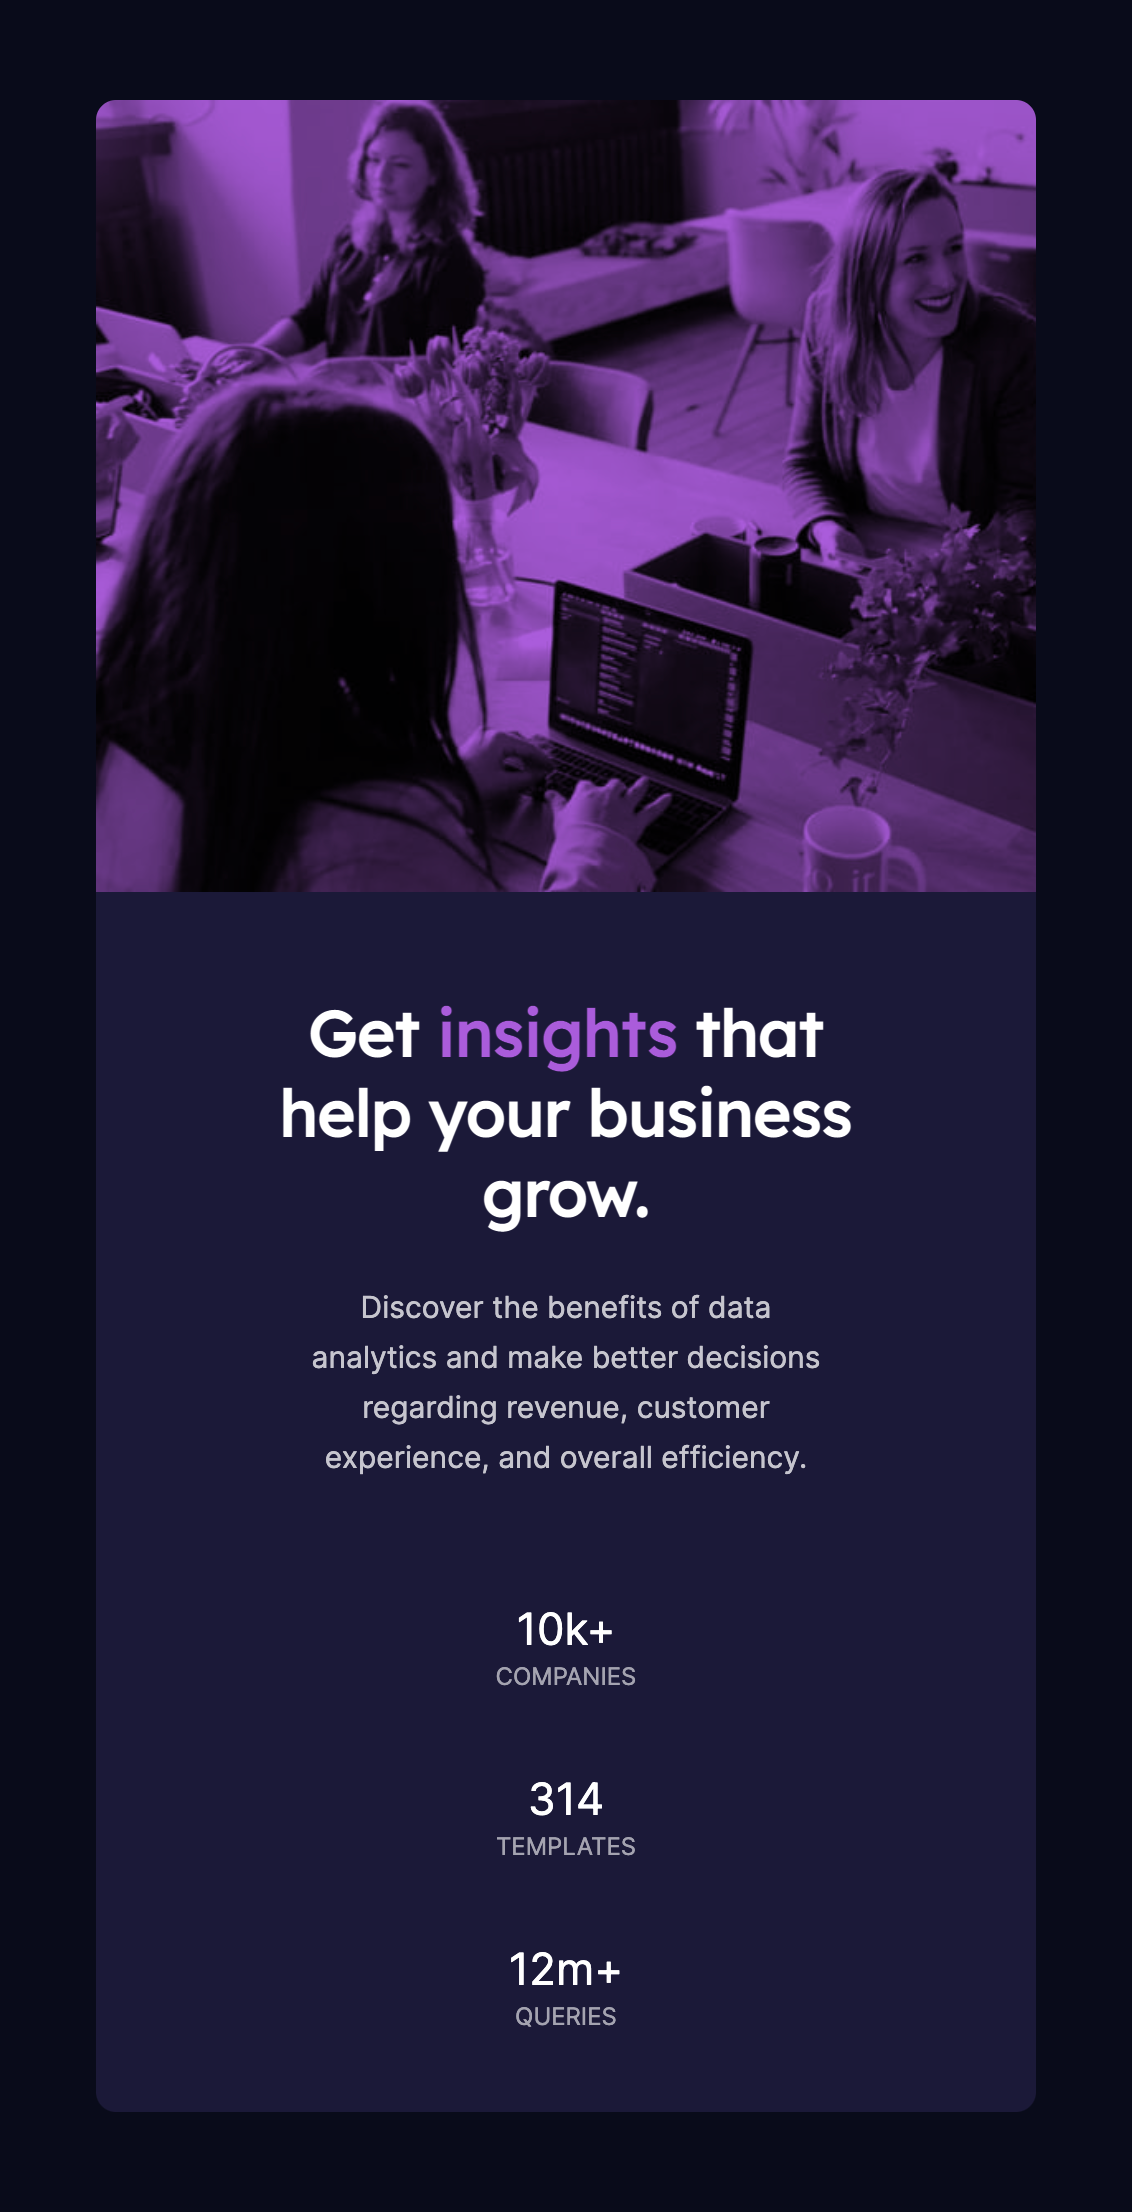
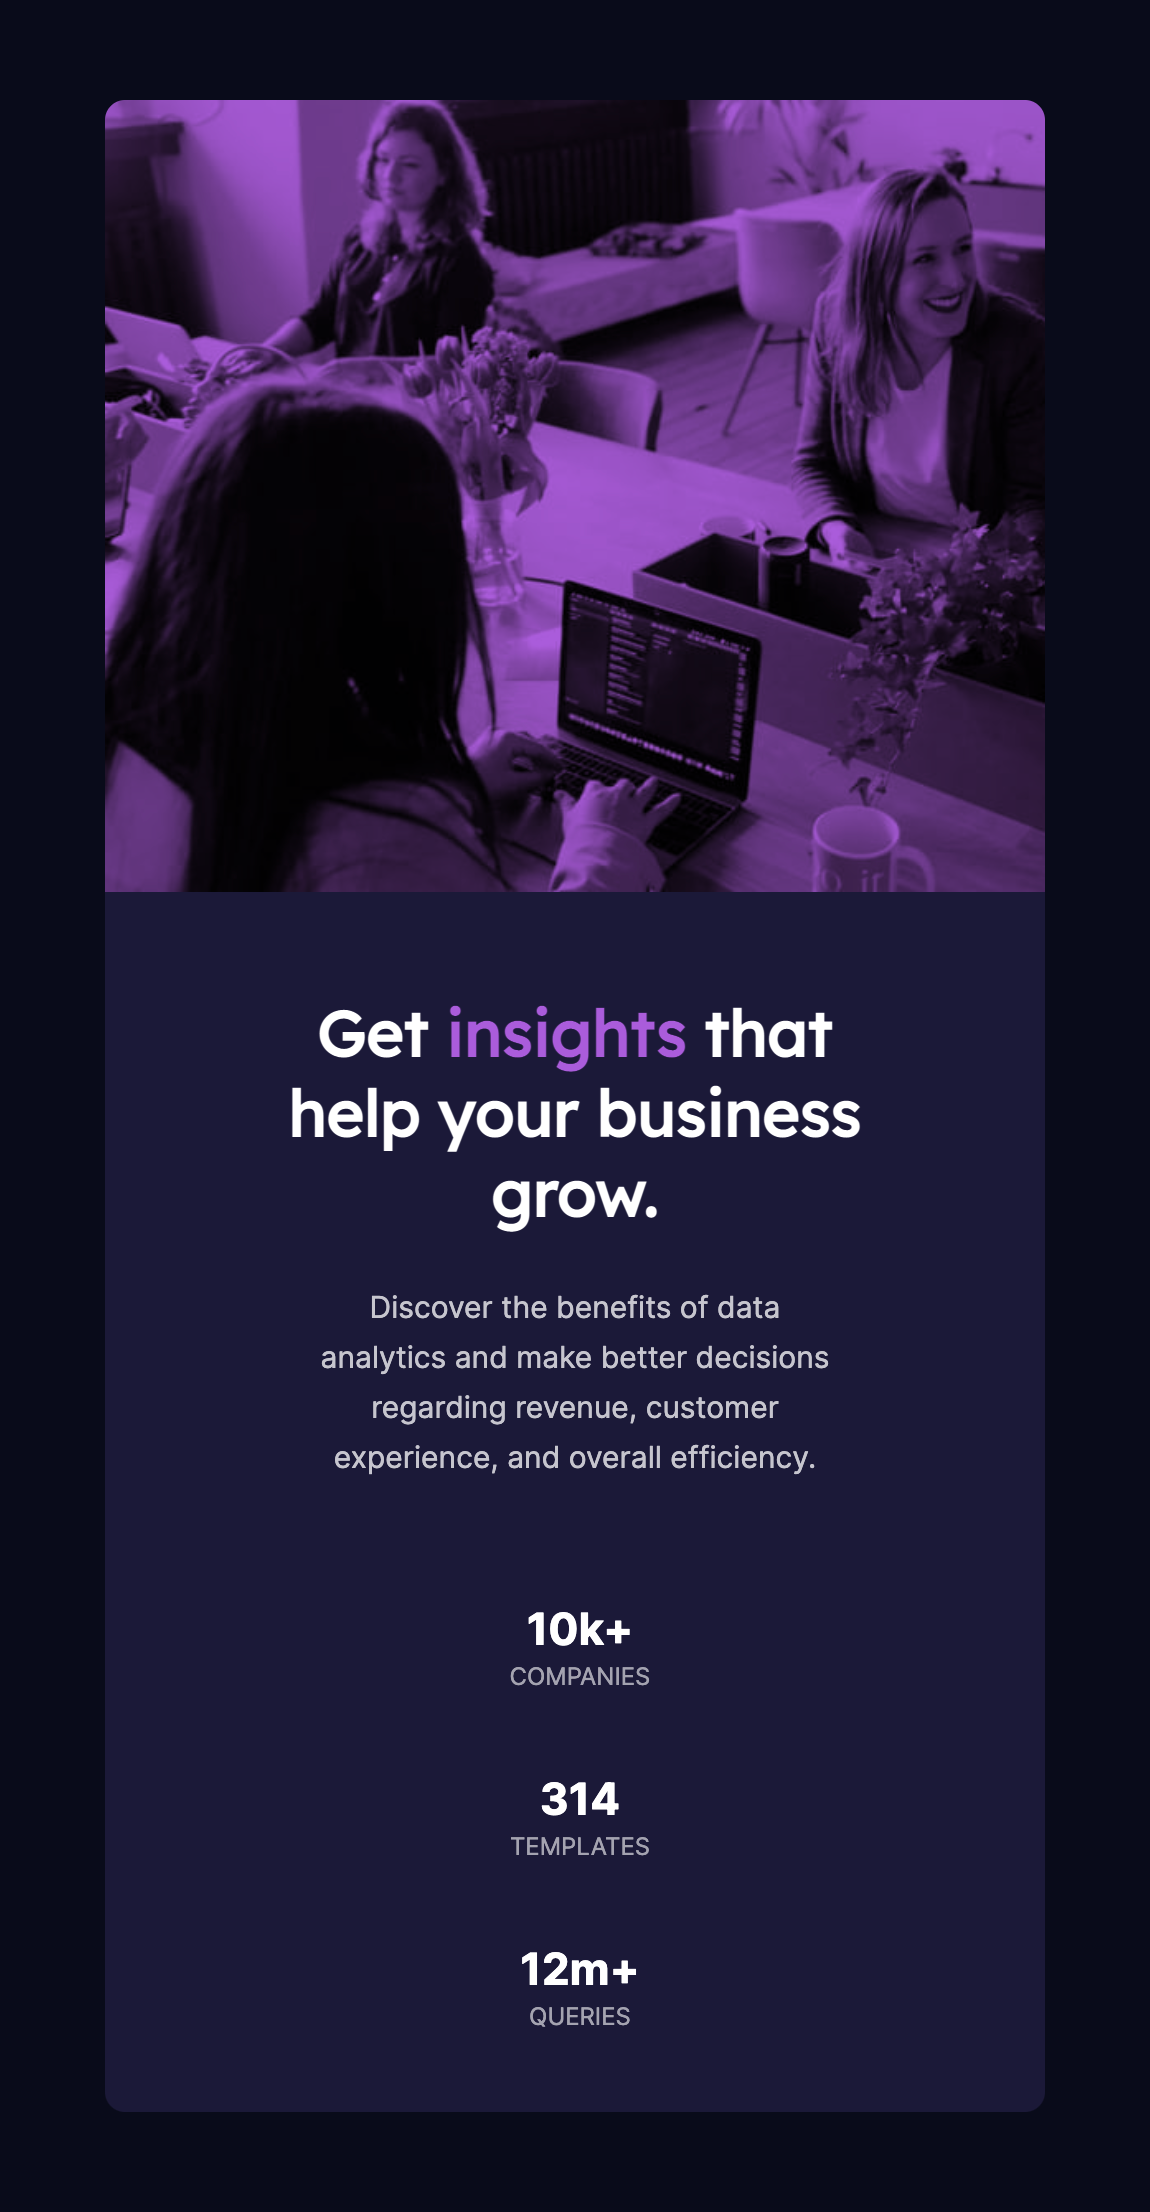
adds CSS changes

diff --git a/style.css b/style.css
@@ -65,7 +65,9 @@ p {
 
 .stats {
     display: flex;
+    justify-content: space-between;
     padding-top: 20px;
+    width: 350px;
 }
 
 .stats p {
@@ -75,6 +77,7 @@ p {
 .stats-heading {
     color: var(--neutral-white-main-heading-stats);
     font-size: 22px;
+    font-weight: 700;
 }
 
 .uppercase {
@@ -135,6 +138,7 @@ p {
     .stats {
         flex-direction: column;
         padding-bottom: 25px;
+        width: 250px;
     }
 
     .stats p {
